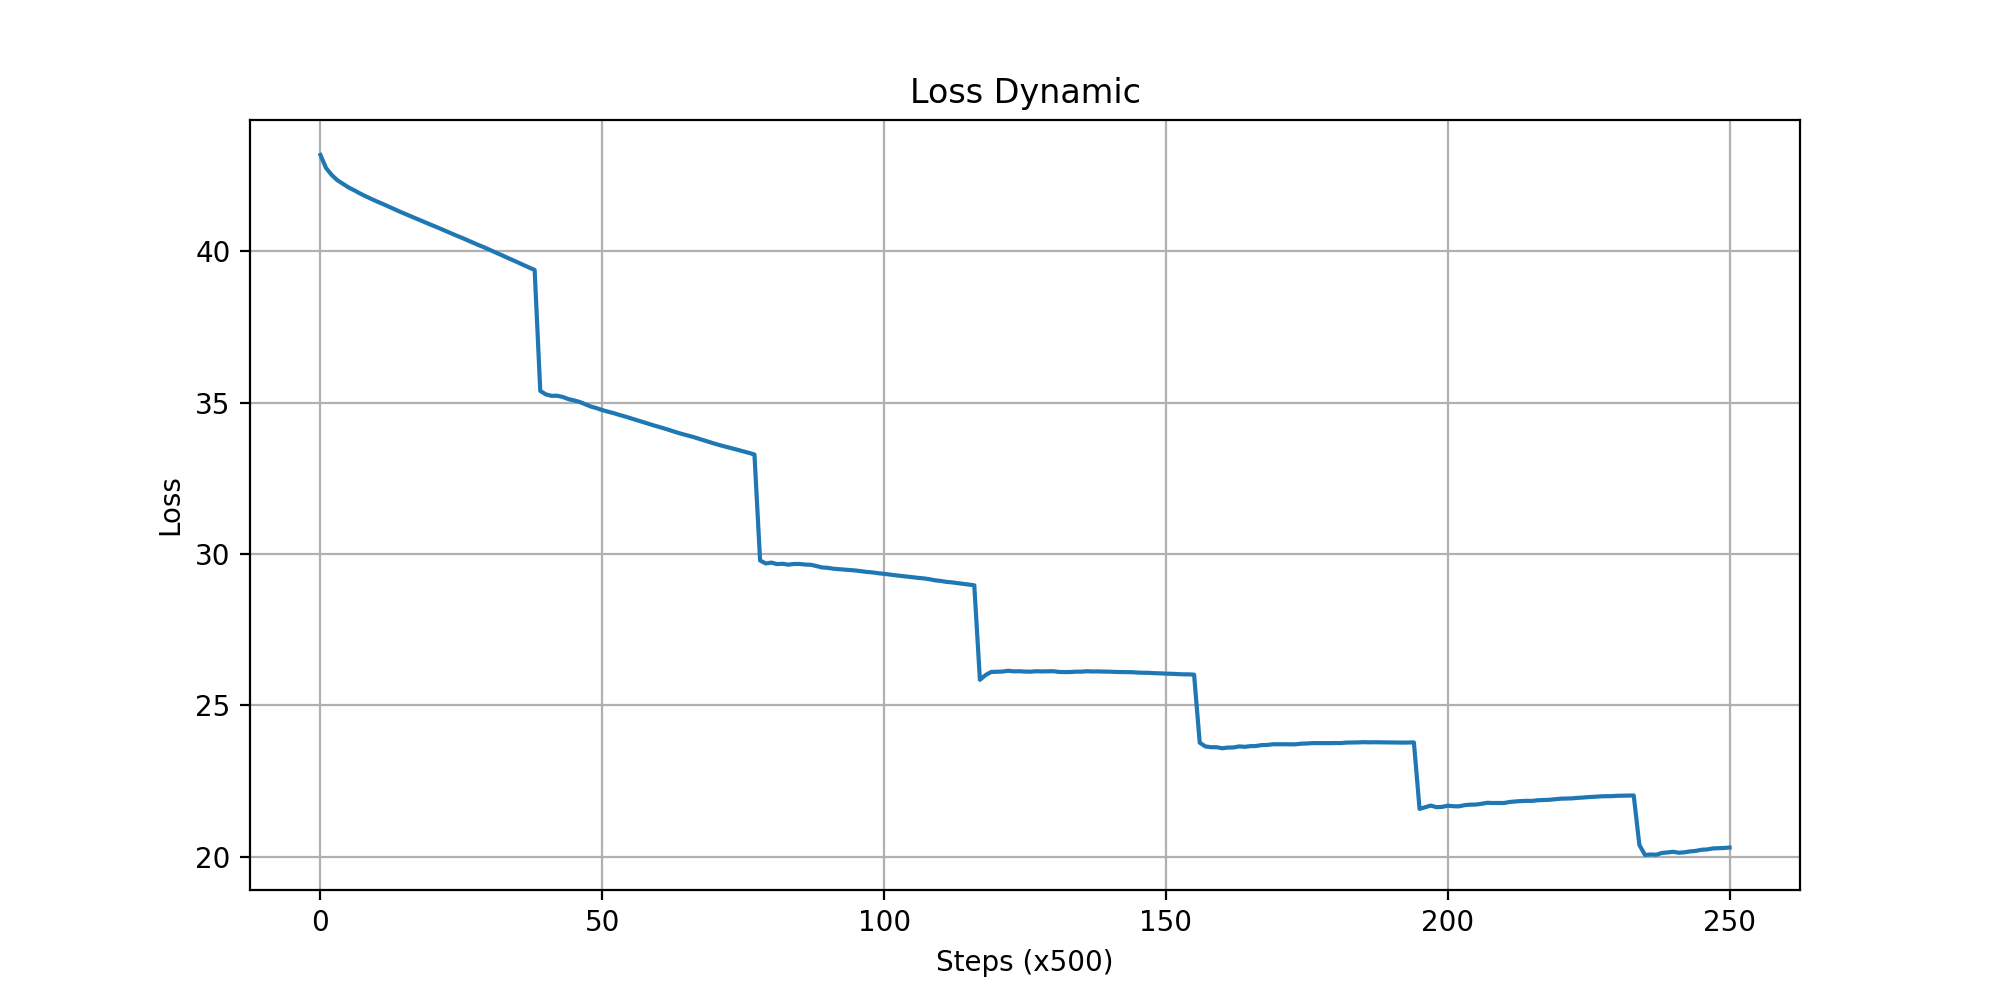
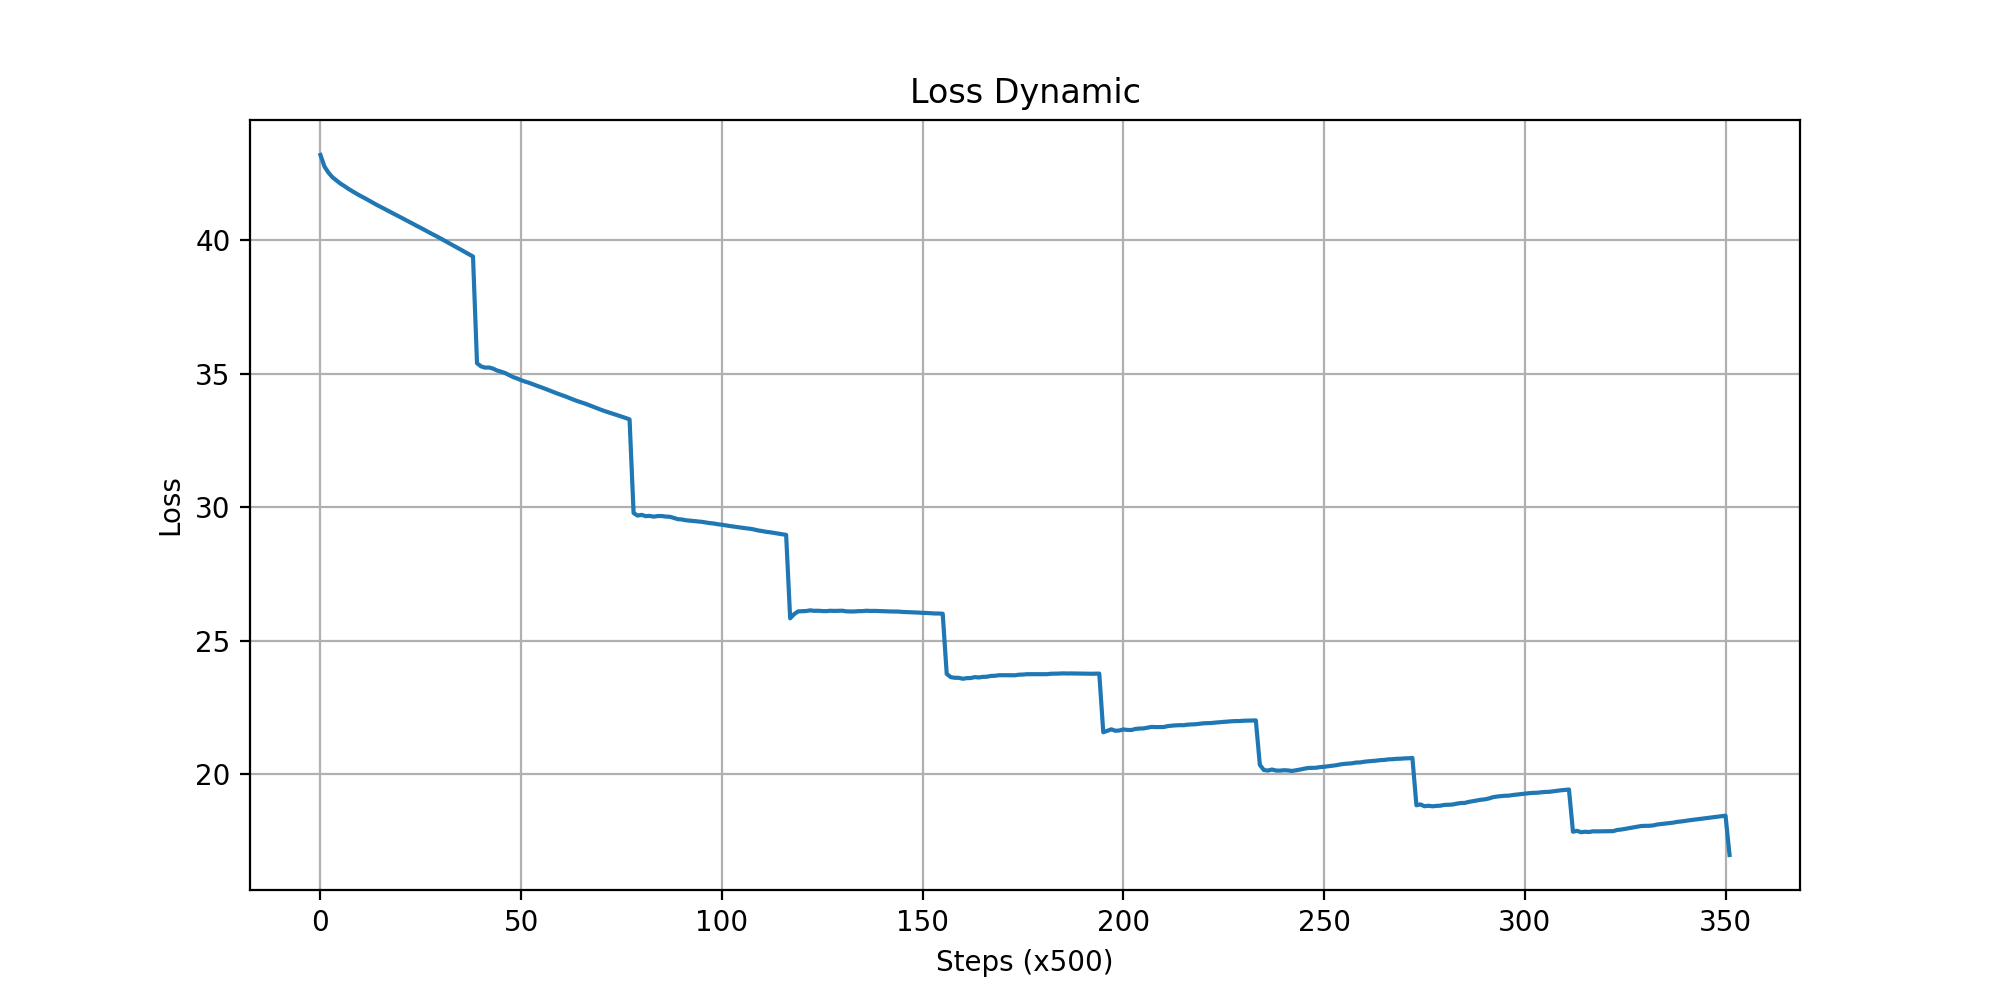
interface bug fixes

diff --git a/face_recognition/App.py b/face_recognition/App.py
@@ -74,6 +74,19 @@ class FaceApp(QMainWindow):
         self.load_model(self.detector_path,
                         self.extractor_path)
 
+    def closeEvent(self, event):
+        reply = QMessageBox.question(self,
+                                     'Exit',
+                                     'Are you sure you want to quit?',
+                                     QMessageBox.StandardButton.Yes | QMessageBox.StandardButton.No)
+        if reply == QMessageBox.StandardButton.Yes:
+            self.stop_processing()
+            print('Exit.')
+            self.print_info('Exit.')
+            event.accept()
+        else:
+            event.ignore()
+
     def load_model(self, detector_path, extractor_path):
         # Try to load every file.
         if self.VideoThread is not None and self.VideoThread.is_running:
@@ -123,9 +136,9 @@ class FaceApp(QMainWindow):
             self.VideoThread.stop()
             self.VideoThread.change_pixmap_signal.disconnect()
             self.display_label.clear()
+            self.VideoThread = None
             print('Terminated.')
             self.print_info('Terminated.')
-            self.VideoThread = None
 
     def open_add_face_dialog(self):
         # Check errors
@@ -159,10 +172,6 @@ class FaceApp(QMainWindow):
                 # Get the information
                 data = dialog.get_data()
                 # Push a person into the database
-                index = self.dbadmin.add_person(data['first_name'],
-                                                data['last_name'],
-                                                data['surname'],
-                                                data['birthdate'])
                 with torch.no_grad():
                     # Try to add all records
                     error_text = ''
@@ -171,6 +180,10 @@ class FaceApp(QMainWindow):
                         # Try to detect faces
                         cropped_image, left_eye, right_eye, rectangle = self.detector(img)
                         if cropped_image is not None:
+                            index = self.dbadmin.add_person(data['first_name'],
+                                                            data['last_name'],
+                                                            data['surname'],
+                                                            data['birthdate'])
                             # TODO: normalize_transform?
                             cropped_image = self.normalizer.transform(cropped_image)
                             cropped_image = cropped_image.to(self.device)

diff --git a/face_recognition/src/VideoThread.py b/face_recognition/src/VideoThread.py
@@ -73,7 +73,7 @@ class VideoThread(QThread):
                         embedding = self.extractor(cropped_image)[0]
                         # TODO: reaccess bd every n frames
                         closest = self.dbadmin.get_closest(embedding.tolist(),
-                                                           threshold=0.6)
+                                                           threshold=0.87)
                         # Get the name
                         if closest:
                             closest = closest[0]

diff --git a/face_recognition/FineTuning.py b/face_recognition/FineTuning.py
@@ -67,7 +67,7 @@ last_epoch = 50
 epoch_loss_dynamic = []
 
 # Checkpoint
-chechpoint_path: str | None = 'checkpoint4'
+chechpoint_path: str | None = 'checkpoint2'
 if chechpoint_path is not None:
     checkpoint = torch.load('./checkpoints/' + chechpoint_path + '.pth')
     extractor.load_state_dict(checkpoint['model'])
